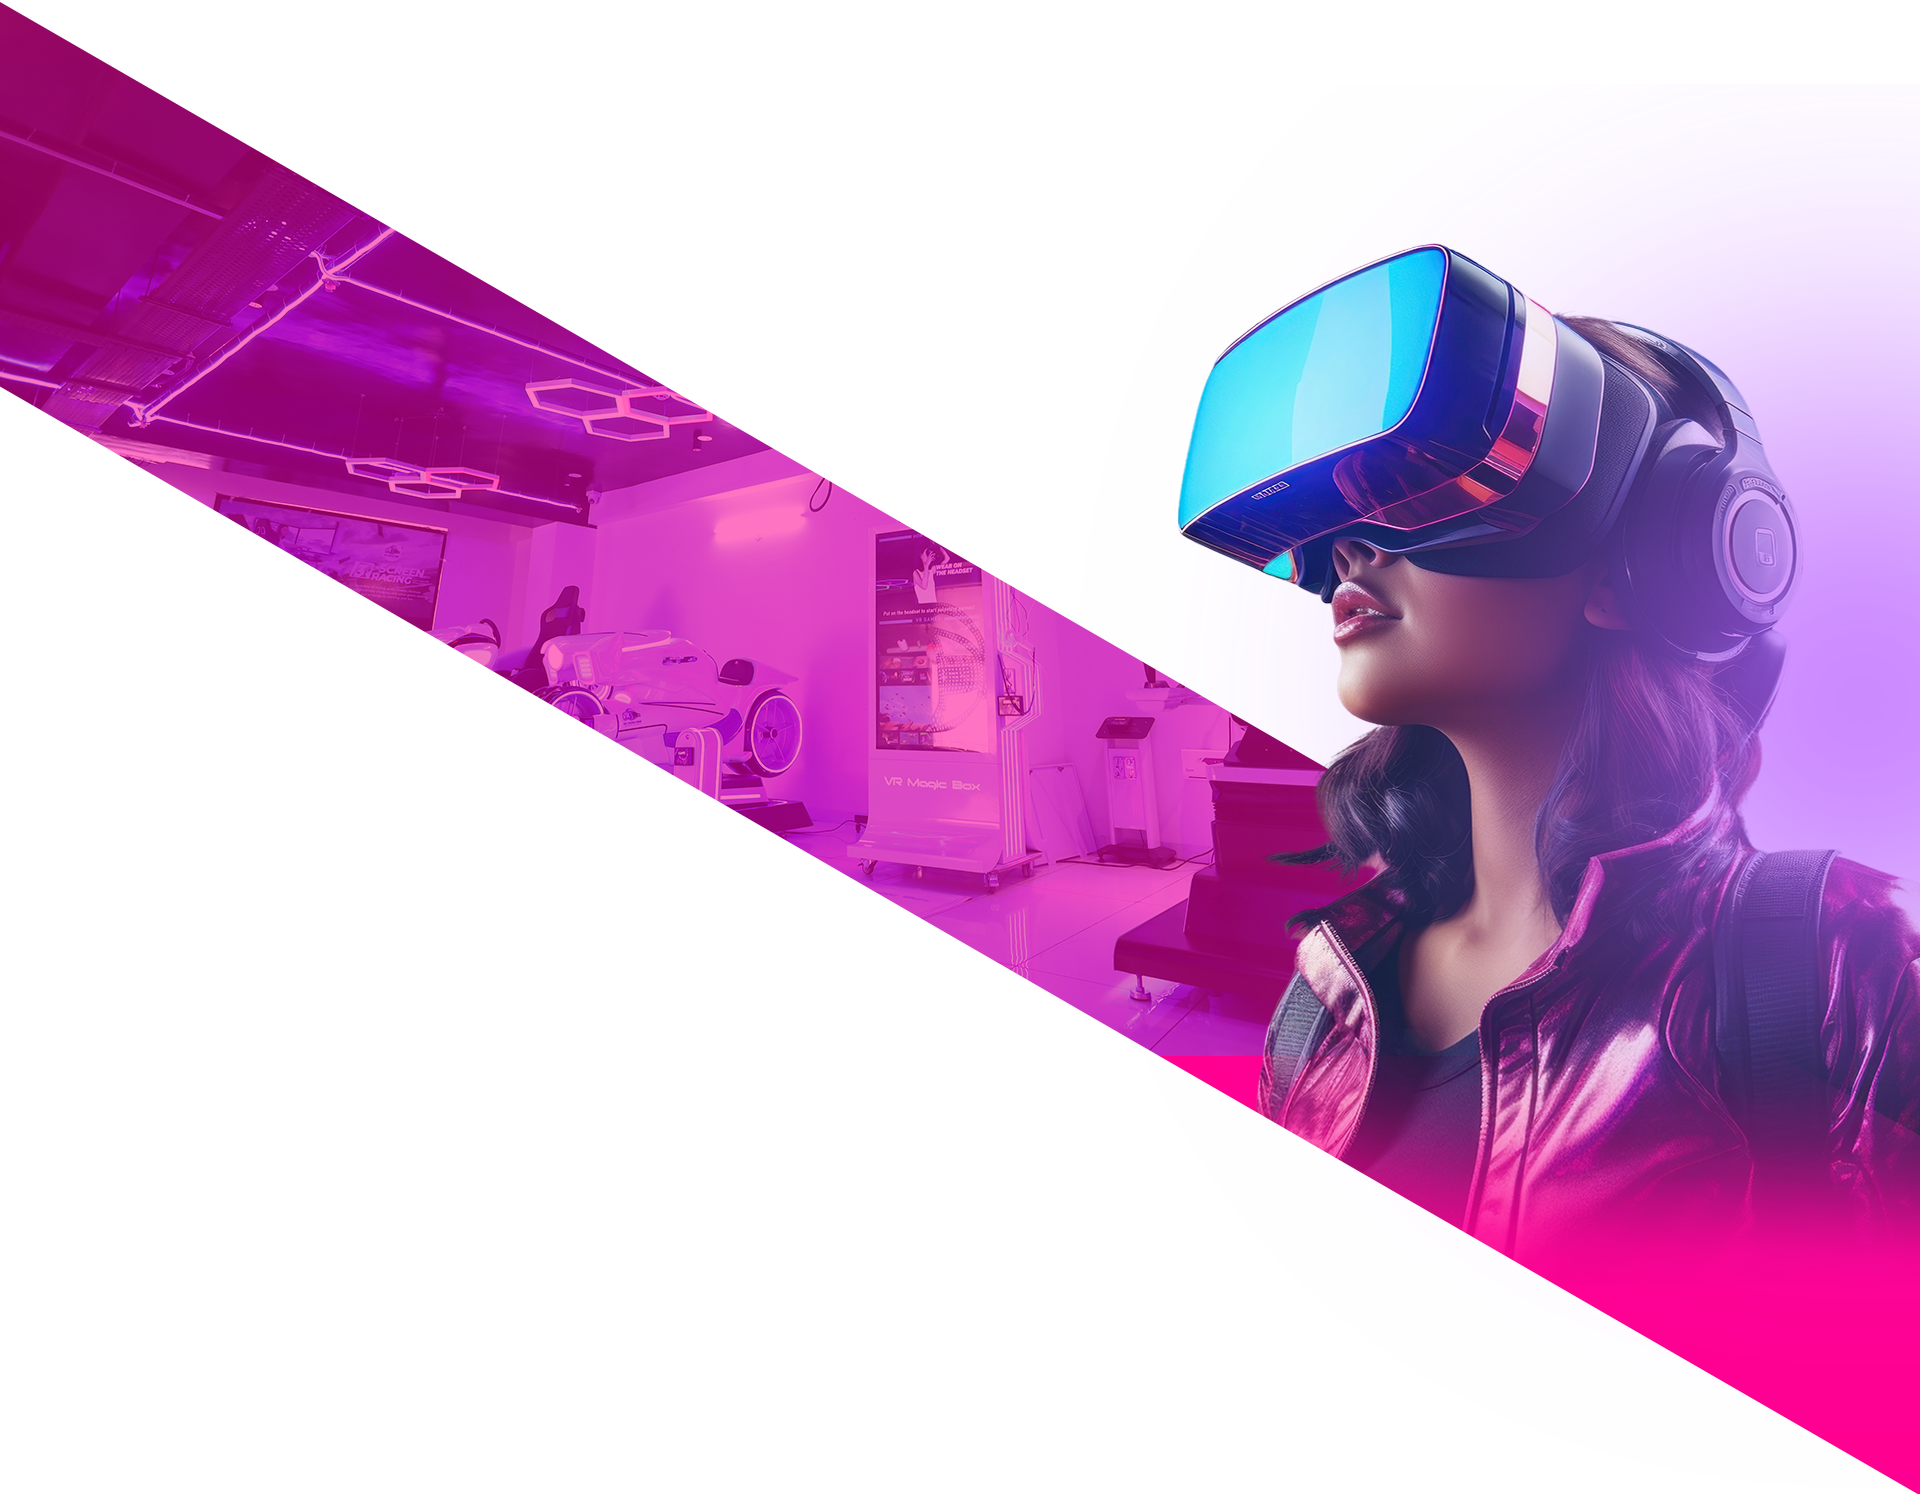
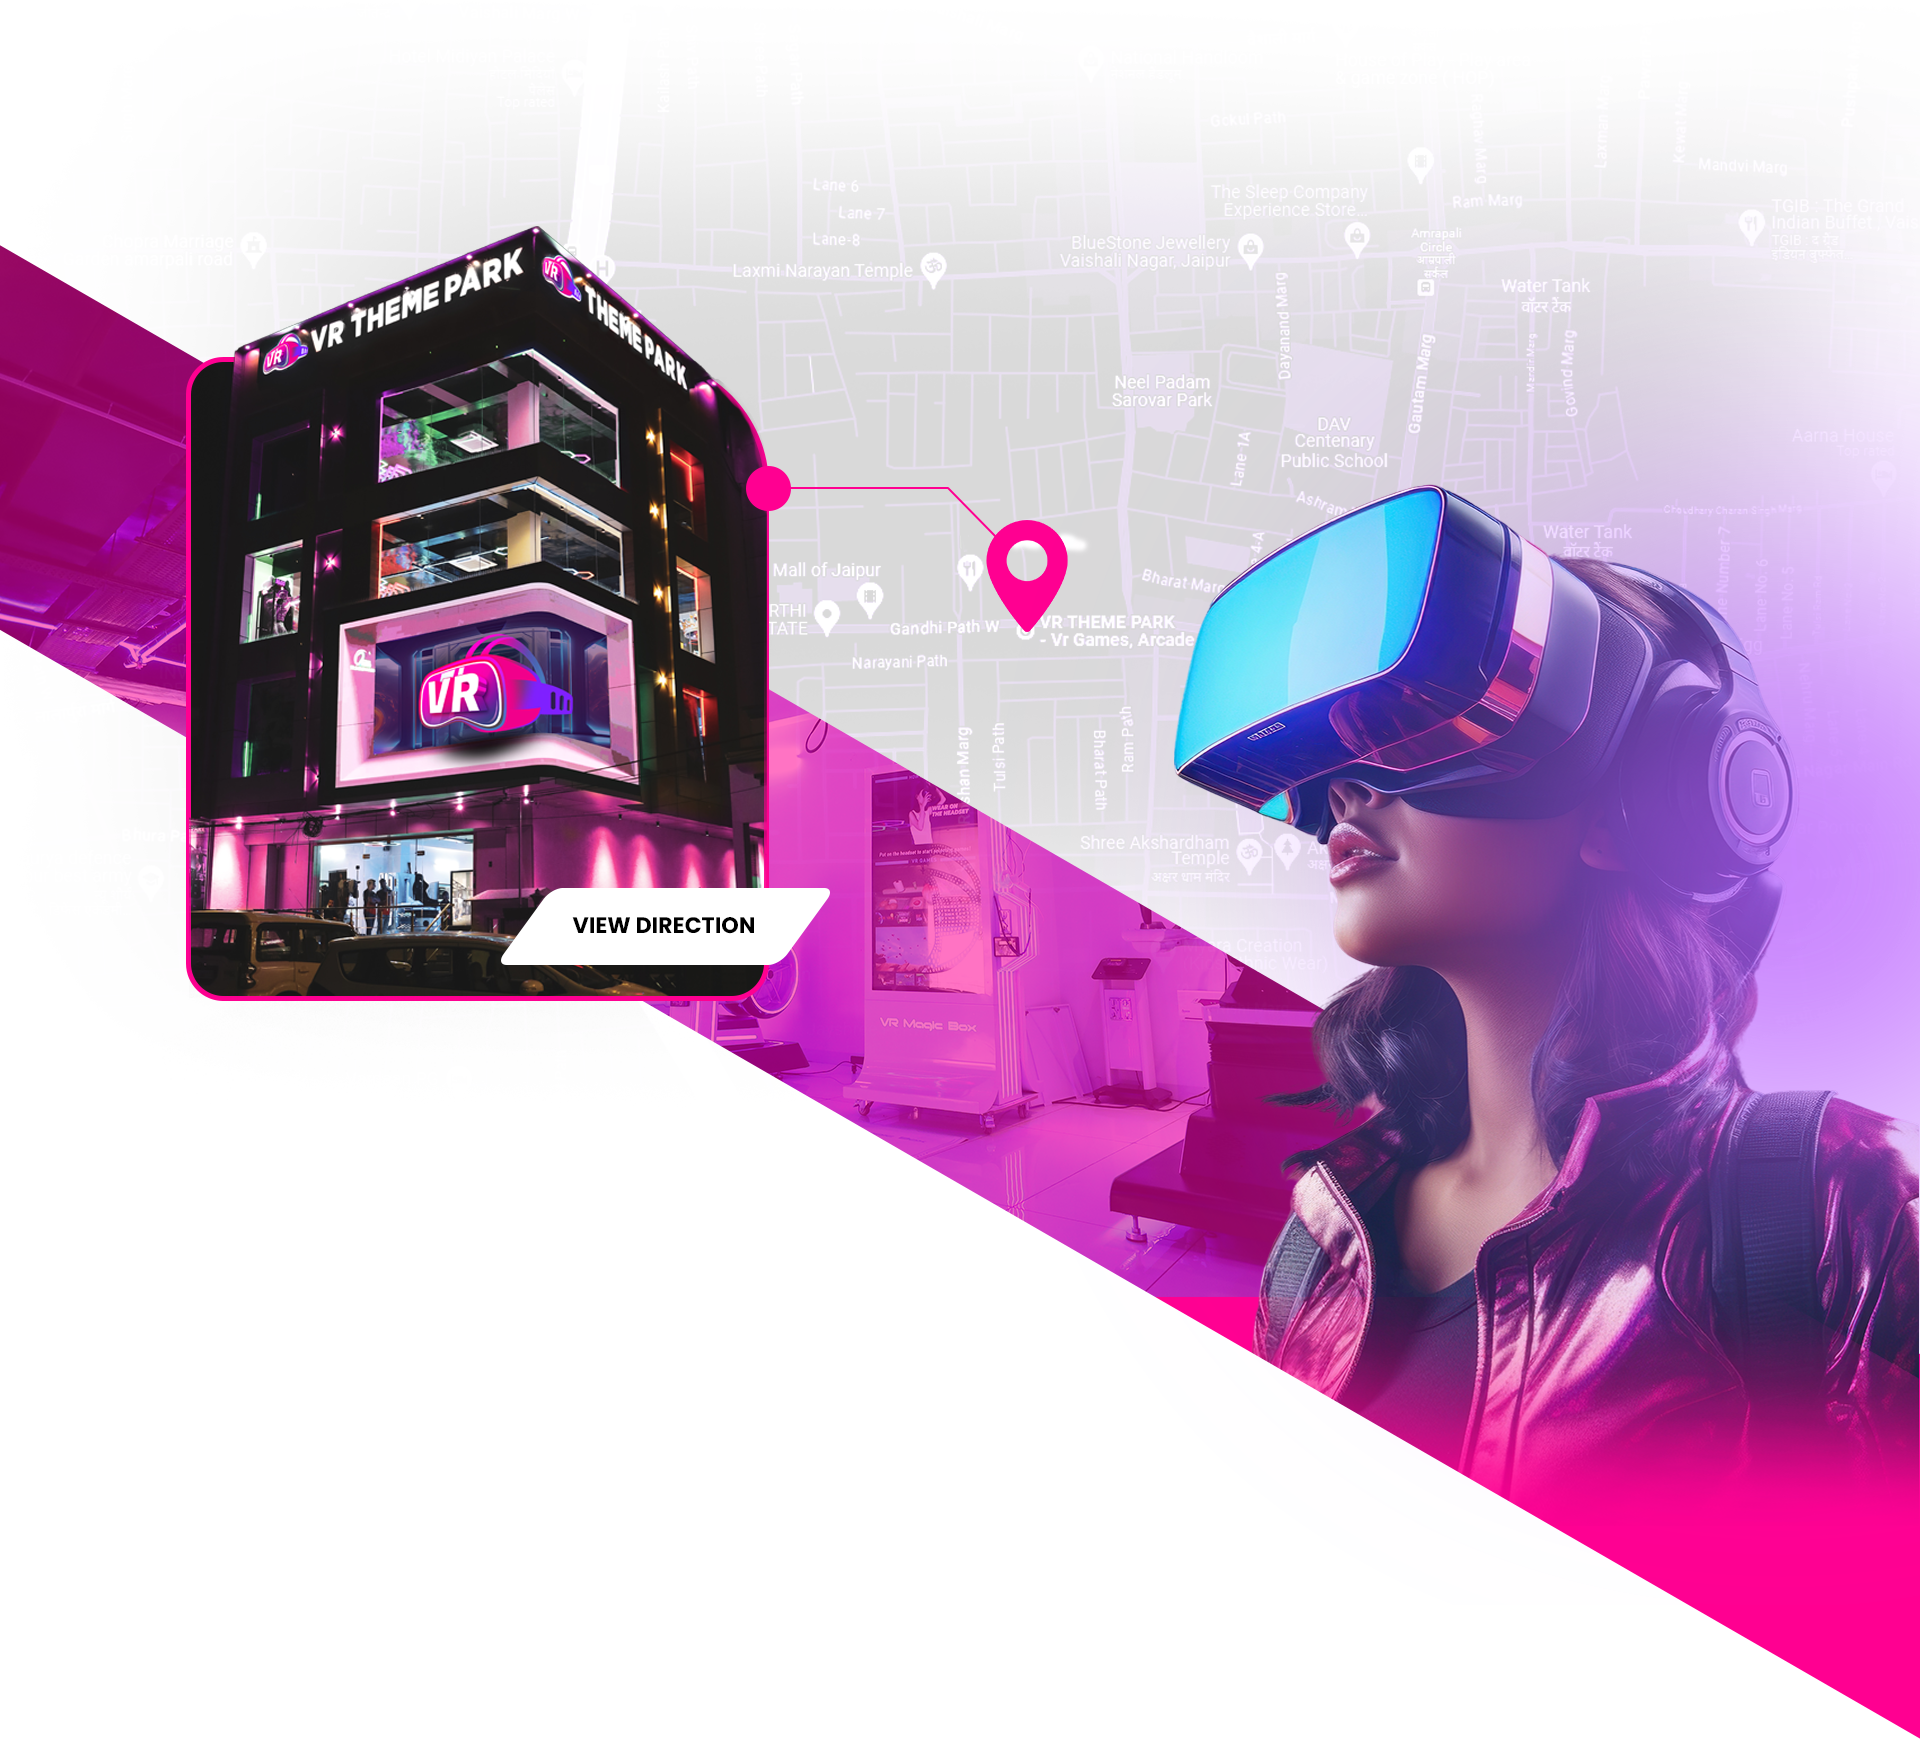
15-10-24

diff --git a/src/index.css b/src/index.css
@@ -513,8 +513,10 @@ button.absolute.left-7.bg-white.rounded-full.text-primary.py-2.px-\[25px\].text-
 
 .heading_client_page {
   margin: auto;
-  width: 70%;
+  width: 90%;
 }
+
+
 
 p.client_page_slider_para {
   padding-right: 50px;
@@ -585,6 +587,100 @@ p.para_vr_tp.md\:text-\[16px\].text-\[15px\].md\:font-medium.font-Poppins.pt-6 {
   padding-top: 5px;
 }
 
+.Direction_btn {
+  bottom: 0;
+  right: 0;
+  width: auto;
+  height: auto;
+  background: transparent !important;
+  z-index: 999 !important;
+  margin: 0;
+}
+
+.VR-park_top_img {
+  padding: 0;
+}
+
+.vr_main_contant {
+  height: 30%;
+}
+
+.Direction_btn a {
+  font-size: 0px;
+  width: 650px;
+  display: block;
+  height: 230px;
+  position: absolute;
+  background: #ffffff00;
+  z-index: 999999;
+  padding: 60px;
+  right: -60px;
+  bottom: -190px;
+}
+
+.Review_page_main_top {
+  position: absolute;
+  bottom: 80px;
+  width: 100%;
+}
+
+.Review_page_main_top .review_page_para p {
+  font-size: 14px;
+  padding-right: 100px;
+}
+
+.Direction_btn p {
+  width: 100%;
+  display: block;
+  font-size: 0;
+  height: 100%;
+}
+
+/* .Direction_btn {
+  bottom: -8%;
+  right: 5%;
+}
+
+.VR_THEME_PARK_MAIN .vr_main_contant .VR-park_top_img {
+  position: relative;
+  padding: 0;
+} */
+
+/* .VR_THEME_PARK_MAIN .VR-park_top_img {
+  height: 990px;
+} */
+
+/* .VR_THEME_PARK_MAIN .VR-park_top_img .pin_img_map {
+  display: none;
+}
+
+.VR_THEME_PARK_MAIN .VR-park_top_img img {
+  display: none;
+}
+
+.maps .img img {
+  display: none;
+} */
+
+
+.VR_THEME_PARK_MAIN {padding: 0;}
+
+.VR_THEME_PARK_MAIN .main_bg_img img {
+    width: 100%;
+    position: relative;
+    top: -140px;
+}
+.VR_THEME_PARK_MAIN .vr_main_contant {
+  position: absolute;
+  top: 60px;
+  max-width: 1536px;
+  margin: 0 auto 0;
+  width: 85%;
+  left: auto;
+  right: auto;
+  height: 41%;
+}
+
 /* Dinesh_responsive_css_start */
 
 
@@ -594,6 +690,28 @@ p.para_vr_tp.md\:text-\[16px\].text-\[15px\].md\:font-medium.font-Poppins.pt-6 {
     transition: 0.3s;
     gap: 20px;
 }
+
+.VR-park_top_img {
+  width: 50% !important;
+}
+
+.VR_THEME_PARK_MAIN .main_bg_img img {
+  top: -60px;
+}
+
+.happy_cliets_main {
+  padding-top: 100px;
+}
+
+p.para_vr_tp.md\:text-\[16px\].text-\[15px\].md\:font-medium.font-Poppins.pt-6 {
+  font-size: 12px;
+}
+
+.Review_page_main_top {
+  bottom: -70px;
+}
+
+
 
 .-right-16 {
   right: -30px !important;
@@ -802,7 +920,7 @@ p.uppercase.font-Poppins.tracking-widest.font-semibold.md\:text-\[22\.23px\].tex
 }
 
 p.lg\:text-\[16px\].text-\[15px\].md\:font-medium.font-Poppins.pt-10 {
-  font-size: 14px;
+  font-size: 10px;
 }
 
 .heading_client_page span.tracking-wider {
@@ -1004,7 +1122,7 @@ p.msg {
 }
 
 p.para_vr_tp.md\:text-\[16px\].text-\[15px\].md\:font-medium.font-Poppins.pt-6 {
-  font-size: 12px;
+  font-size: 10px;
   padding-top: 5px;
 }
 
@@ -1018,6 +1136,10 @@ p.para_vr_tp.md\:text-\[16px\].text-\[15px\].md\:font-medium.font-Poppins.pt-6 {
 
 .AT-YOUR-NEAREST {
   width: 43%;
+}
+
+p.para_vr_tp.md\:text-\[16px\].text-\[15px\].md\:font-medium.font-Poppins.pt-6 {
+  font-size: 8px;
 }
 
 }
@@ -1705,6 +1827,76 @@ p.uppercase.font-Poppins.tracking-widest.font-semibold.md\:text-\[22\.23px\].tex
 
 .news_logos .flex.flex-wrap.justify-center.items-center.gap-9.mb-10 {
   margin: 0 0 0;
+}
+
+.hidden {
+  display: none !important;
+}
+
+.happy_cliets_main {
+  padding-top: 100px;
+}
+
+.Review_page_main_top {
+  position: unset;
+}
+
+.Review_page_main_top .review_page_para p {
+  padding-right: 0;
+  font-size: 12px !important;
+}
+
+.VR_THEME_PARK_MAIN .vr_main_contant {
+  position: unset;
+  width: 100%;
+}
+
+p.para_vr_tp.md\:text-\[16px\].text-\[15px\].md\:font-medium.font-Poppins.pt-6 {
+  font-size: 12px;
+  display: none;
+}
+
+.VR-park_top_img {
+  width: 100% !important;
+  order: 1;
+}
+
+.VR_THEME_PARK_MAIN .VR-park_top_img img {
+  display: block !important;
+  height: auto !important;
+  margin: 0 0 -40px;
+}
+
+.VR_THEME_PARK_MAIN .main_bg_img img {
+  display: none;
+}
+
+.happy_cliets_main {
+  padding-top: 10px;
+}
+
+.VR_THEME_PARK_MAIN .Direction_btn {
+  background: #fff !important;
+}
+
+.VR_THEME_PARK_MAIN .Direction_btn a {
+  width: auto;
+  height: 45px;
+  position: unset;
+  padding: 0;
+  font-size: 16px;
+  vertical-align: bottom;
+  align-content: center;
+}
+
+.heading_vr_theme_park_main h2.lg\:text-\[52px\].text-\[40px\].font-Poppins.font-semibold.leading-\[52px\] {
+  font-size: 26px;
+  text-align: center;
+}
+
+.heading_vr_theme_park_main p.subheading_ve-tp.md\:text-\[20px\].text-\[18px\].font-Poppins.md\:font-medium {
+  font-size: 14px;
+  text-align: center;
 }
 
 

diff --git a/src/pages/VrThemePark.jsx b/src/pages/VrThemePark.jsx
@@ -7,6 +7,7 @@ import girls from "../assets/girls.png";
 import LineSecond from "../assets/LineSecond.png";
 import LineFirst from "../assets/LineFirst.png";
 import Mapimg from "../assets/Map_img.png"
+import VrBgImg from "../assets/girls.png"
 
 const VrThemePark = ({ onMount, onReviewMount }) => {
   const [data, setData] = useState([]);
@@ -52,19 +53,25 @@ const VrThemePark = ({ onMount, onReviewMount }) => {
           //   backgroundImage: `url(${mapicons})`,
           // }}
         >
-          <div className="img">
+          {/* <div className="img">
             <img src={Mapimg} alt="" />
-          </div>
+          </div> */}
           <div
             className="VR_THEME_PARK_MAIN bg-none "
-            style={{
-              backgroundImage: `url(${girls})`,
-              backgroundRepeat: "no-repeat",
-              backgroundSize: "contain",
-              height: "100%",
-              backgroundPosition: "center",
-            }}
+            // style={{
+            //   backgroundImage: `url(${girls})`,
+            //   backgroundRepeat: "no-repeat",
+            //   backgroundSize: "100%",
+            //   height: "100%",
+            //   backgroundPosition: "center",
+            // }}
           >
+
+            <div className="main_bg_img">
+              <div className="img_inner">
+                <img src={VrBgImg} alt="" />
+              </div>
+            </div>
             <div className="LINE_IMG flex flex-col absolute top-2 ">
               <div className="relative">
                 <div>
@@ -76,13 +83,13 @@ const VrThemePark = ({ onMount, onReviewMount }) => {
               </div>
             </div>
             <div className="container mx-auto">
-              <div className="flex flex-col  md:flex-row ">
+              <div className="vr_main_contant flex flex-col  md:flex-row ">
                 <div className="VR-park_top_img lg:w-[40%] w-full flex  relative Width  lg:pt-12">
                   <img
                     src={item.vrThemeParkImg}
                     alt=""
-                    className="object-cover w-[200px] md:w-[300px] lg:w-full h-full pt-5"
-                  />
+                    className="hidden object-cover w-[200px] md:w-[300px] lg:w-full h-full pt-5"
+                  />  
                   <div
                     className="Direction_btn absolute lg:w-[250px] lg:h-[60px] w-[150px] h-[30px] lg:bottom-28 lg:-right-6 bottom-10 md:bottom-20 right-24 md:right-10 flex justify-center items-center m-4"
                     style={{
@@ -105,13 +112,13 @@ const VrThemePark = ({ onMount, onReviewMount }) => {
                       <a href={item.buttonLink}>{item.button}</a>
                     </p>
                   </div>
-                  <div className="pin_img_map absolute lg:top-72 top-32 lg:-right-48 md:-right-32 right-12">
+                  {/* <div className="pin_img_map absolute lg:top-72 top-32 lg:-right-48 md:-right-32 right-12">
                     <img
                       src={"/map.png"}
                       alt=""
                       className="object-cover md:w-[220px] w-[100px] h-full "
                     />
-                  </div>
+                  </div> */}
                 </div>
 
                 <div className="heading_vr_theme_park_main lg:w-[60%] w-full flex flex-col">

diff --git a/src/pages/ReviewPage.jsx b/src/pages/ReviewPage.jsx
@@ -45,7 +45,7 @@ const ReviewPage = ({onReviewMount}) => {
   };
 
   return (
-    <div className="text-white">
+    <div className="text-white Review_page_main_top">
       {revData.map((item, index) => (
         <div key={index} className="container mx-auto">
           <div className="Review_page_main flex flex-col justify-center items-center md:justify-start md:items-start gap-[2px] lg:ml-8 pt-10 md:pt-0">
